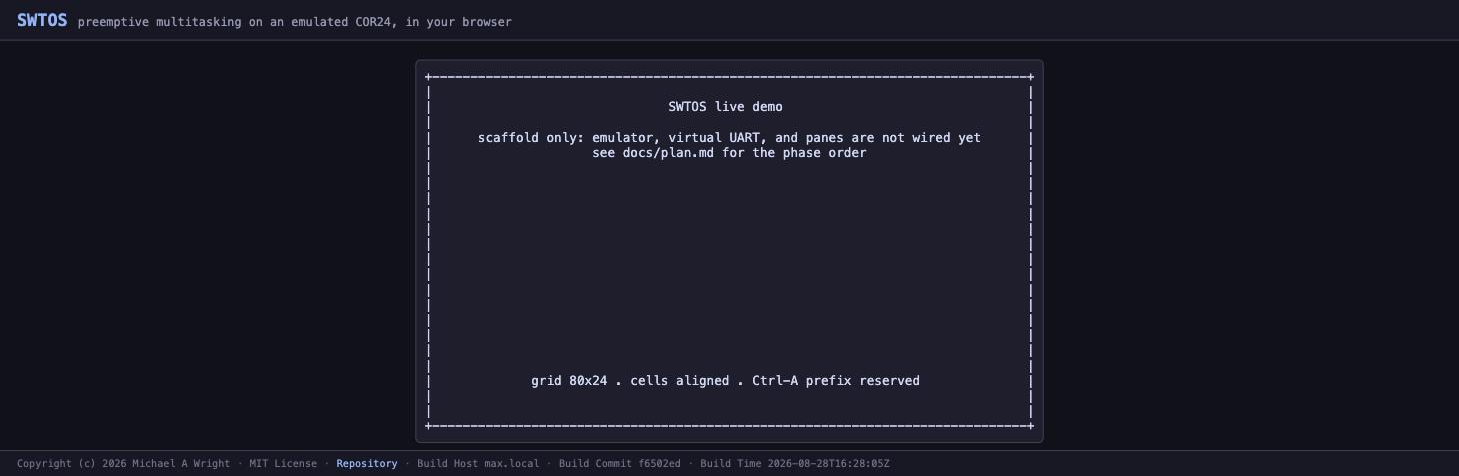
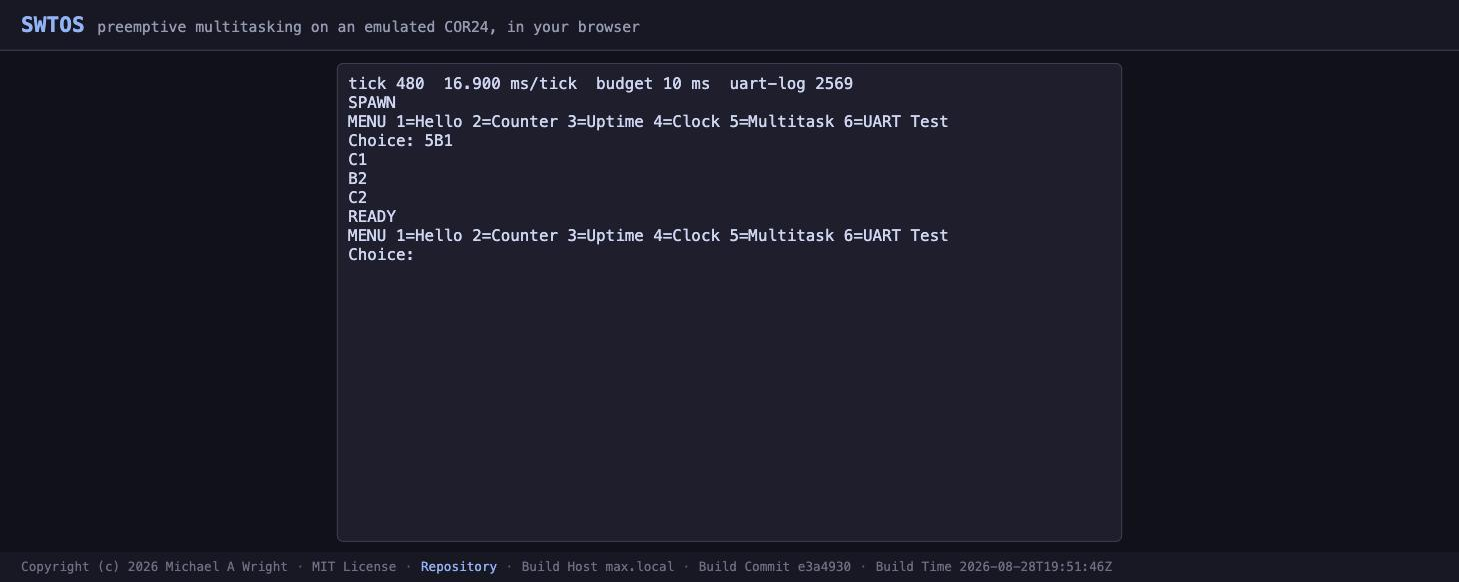
docs(readme): show the interactive demo, not the scaffold
The screen capture was of the placeholder screen from step 001 and the status
table claimed all three phases were pending, which stopped being true two
steps ago.

images/screenshot.png is now a capture of the LIVE deployed page running the
multitasking demo, showing two processes interleaving their output as B1, C1,
B2, C2. That is the most honest single image of what this project does: real
preemptive multitasking on an emulated CPU, in a browser tab.

Usage now documents what actually works today -- press a digit at the Choice
prompt -- separately from the Ctrl-A commands that arrive with the tiled
frontend. The Ctrl-A table gained `c` for clear-pane, which te-rs does not
have and which this port adds per the pane-lifecycle decision.

Added a short performance section, since ~60 Hz against a 100 Hz target is a
property a visitor can observe (Uptime and Clock run slow) and is better
explained than discovered.

diff --git a/README.md b/README.md
@@ -6,7 +6,7 @@ Rust compiled to WebAssembly, with no server and nothing to install.
 
 **[Live Demo](https://sw-embed.github.io/web-sw-tos/)**
 
-![SWTOS running in the browser](images/screenshot.png?ts=1787935381000)
+![SWTOS running in the browser](images/screenshot.png?ts=1787946868000)
 
 Part of the [Software Wrighter COR24 Tools Project](https://sw-embed.github.io/web-sw-cor24-demos/#/).
 
@@ -49,32 +49,65 @@ a simulation of one, is the point of this demo.
 
 ## Status
 
-Under construction. The scaffold is in place and the character grid renders;
-the emulator, virtual UART, and panes are not wired up yet.
+**The shell is live and interactive.** SWTOS boots on the emulated CPU, prints
+its menu, and responds to your keystrokes. Press `1` for Hello, `2` for
+Counter, `5` for the multitasking demo -- the screenshot above shows two
+processes interleaving their output (`B1`, `C1`, `B2`, `C2`).
+
+The tiled pane frontend is still being ported.
 
 | Phase | Scope | State |
 |---|---|---|
-| 0 | Foundation: scaffold, vendored image, vendored frontend core | in progress |
-| 1 | An interactive Shell pane over the virtual UART | planned |
-| 2 | Application, resources, and debugger panes; zoom; copy mode; the preemption proof | planned |
+| 0 | Foundation: scaffold, vendored image, vendored transport | done |
+| 1 | An interactive Shell over the virtual UART | done |
+| 2 | Tiled panes, zoom, copy-mode scrollback, the preemption proof | in progress |
+
+### Performance
+
+The emulator runs about 7x slower in WebAssembly than natively, reaching
+roughly 60 scheduler ticks per second against a target of 100. Typing latency
+is bounded by one tick and is imperceptible, and preemption is unaffected
+because it is driven by heartbeat count rather than wall-clock rate. The one
+visible artifact is that the Uptime and Clock programs run slow. See
+[docs/plan.md](docs/plan.md) for the measurements.
 
 ## Usage
 
-Once Phase 1 lands, the frontend prefix is `Ctrl-A`. Release it before typing
-the command; each command needs its own prefix.
+Click into the page and type. Keys go to the target wherever focus sits, so
+there is nothing to click first. `Cmd`/`Alt` combinations are left to the
+browser, so reload and devtools keep working.
+
+At the `Choice:` prompt, press a digit:
+
+| Key | Program |
+|---|---|
+| `1` | Hello |
+| `2` | Counter |
+| `3` | Uptime |
+| `4` | Clock |
+| `5` | Multitask -- two processes interleaving |
+| `6` | UART test |
+
+Once the tiled frontend lands, the frontend prefix is `Ctrl-A`. Release it
+before typing the command; each command needs its own prefix.
 
 | Prefix command | Action |
 |---|---|
 | `1` through `9` | Focus a pane by number |
 | `n` | Focus the next pane |
 | `s` | Add a pane |
+| `c` | Clear the focused pane |
 | `x` | Close the focused pane |
 | `z` | Toggle zoom for the focused pane |
 | `y` | Enter or leave copy mode |
 | `?` | Toggle help |
 
-In copy mode, navigate with the arrow keys or `hjkl`, page with `PgUp` and
-`PgDn`, jump to either end with `g` and `G`, and leave with `q`.
+In copy mode, navigate with the arrow keys or `hjkl`, page with `PgUp`/`PgDn`,
+jump with `g`/`G`, and leave with `q`.
+
+There is deliberately no mouse support, no scrollbars, and no copy/paste. The
+demo reproduces a terminal, and layout, focus, zoom, and scrolling all belong
+to the frontend rather than to the browser.
 
 ## Documentation
 
